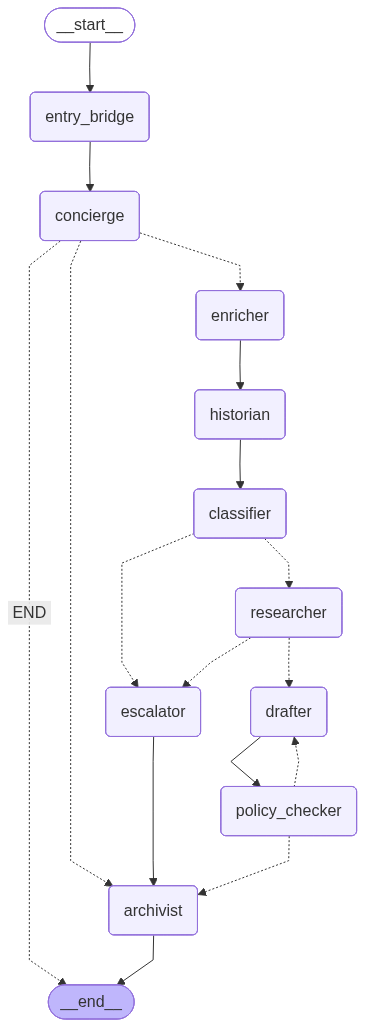
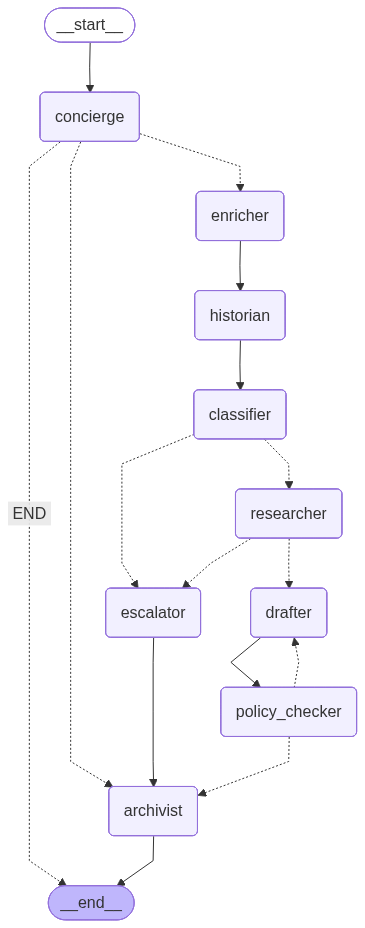
feat: improve researcher and historain and delete bridge

diff --git a/uda_hub/agentic/agents/researcher.py b/uda_hub/agentic/agents/researcher.py
@@ -87,64 +87,75 @@ def research_safety_router(state: UDAHubState) -> Literal["drafter", "escalator"
     return "drafter"
 
 
+# Constants for the node
+MAX_RESEARCH_RETRIES = 2
+
+
 def researcher_node(state: UDAHubState):
     """
-    1. Orchestrates the Researcher Agent to find facts.
-    2. Uses a structured LLM call to Grade those facts against the ticket.
-    3. Returns facts, a numerical confidence score, and an escalation flag.
+    Improved Researcher: Features a self-correction loop.
+    If the grader finds the facts insufficient, the agent is asked to
+    pivot its search strategy (e.g., broader keywords) before giving up.
     """
     anchor = state.get("ticket_text")
     user_id = state.get("user_id")
     tier = state.get("customer_tier", "regular")
 
-    # --- STEP 1: EXECUTE RESEARCH AGENT ---
-    prompt_task = (
-        f"ANCHORED TICKET: {anchor}\n"
-        f"USER CONTEXT: ID={user_id}, Tier={tier}\n\n"
-        "Please find the relevant policies and verify any associated bookings."
-    )
+    # We maintain a local history for this specific research task
+    research_history = [
+        (
+            "system",
+            f"TASK: Find policies and bookings for: {anchor}\nCONTEXT: UserID={user_id}, Tier={tier}",
+        )
+    ]
 
-    config = {
-        "configurable": {"thread_id": state.get("user_id", "internal_research_turn")}
+    attempts = 0
+    final_facts = ""
+    final_grade = None
+
+    while attempts <= MAX_RESEARCH_RETRIES:
+        # --- STEP 1: EXECUTE AGENT ---
+        # We pass the full local history so the agent remembers previous failed queries
+        result = researcher_agent.invoke({"messages": research_history})
+        final_facts = result["messages"][-1].content
+
+        # --- STEP 2: GRADE THE RESEARCH ---
+        grader_llm = llm.with_structured_output(ResearchGrade)
+        grading_prompt = (
+            "You are the UDA-Hub Research Grader. Assess if the facts are sufficient.\n\n"
+            f"USER TICKET: {anchor}\n"
+            f"FOUND FACTS: {final_facts}\n\n"
+            "SCORING RULES:\n"
+            "1. SUCCESS (0.9-1.0): The facts show the standard policy AND confirm the user's Tier (e.g., Basic/Premium). "
+            "If the user is Basic, do NOT penalize for a lack of 'unique' benefits.\n"
+            "2. PARTIAL (0.5-0.7): You have the policy but haven't verified the user's specific tier or reservations.\n"
+            "3. FAIL (0.0-0.4): No relevant policy found or search failed.\n"
+            "NOTE: If the agent confirms the user is a 'Basic' tier and provides the standard inclusions, THIS IS SUFFICIENT."
+        )
+        final_grade: ResearchGrade = grader_llm.invoke(grading_prompt)
+
+        # EXIT CONDITION: High confidence or we've run out of retries
+        if final_grade.is_sufficient or attempts == MAX_RESEARCH_RETRIES:
+            break
+
+        # --- STEP 3: PIVOT (Preparation for Retry) ---
+        attempts += 1
+        research_history.append(("assistant", final_facts))
+        research_history.append(
+            (
+                "user",
+                f"INSUFFICIENT (Confidence: {final_grade.confidence_score}). "
+                f"FEEDBACK: {final_grade.reasoning}. "
+                "Try a broader SQL search using LIKE or checking the 'tags' column.",
+            )
+        )
+
+    # --- STEP 4: RETURN FINAL STATE ---
+    return {
+        "research_facts": final_facts,
+        "retrieval_confidence": final_grade.confidence_score,
+        "needs_escalation": not final_grade.is_sufficient,
     }
-
-    # Execute the agent to gather raw facts
-    result = researcher_agent.invoke({"messages": [("user", prompt_task)]}, config)
-    found_facts = result["messages"][-1].content
-
-    # --- STEP 2: LLM-BASED GRADING (The "Missing Piece") ---
-    # We use structured output to generate a numerical confidence score
-    grader_llm = llm.with_structured_output(ResearchGrade)
-
-    grading_prompt = (
-        "You are the UDA-Hub Research Grader. Your goal is to assess if the found facts "
-        "are sufficient to answer the user's ticket correctly.\n\n"
-        f"USER TICKET: {anchor}\n"
-        f"FOUND FACTS: {found_facts}\n\n"
-        "SCORING RULES:\n"
-        "1. If the facts contain the specific policy or booking info needed: 0.8 - 1.0\n"
-        "2. If the facts are related but incomplete: 0.4 - 0.7\n"
-        "3. If the facts say 'No information found' or are irrelevant: 0.0 - 0.3 (is_sufficient = False)"
-    )
-
-    grade: ResearchGrade = grader_llm.invoke(grading_prompt)
-
-    # --- STEP 3: RETURN STRUCTURED STATE ---
-    out = {
-        "research_facts": found_facts,
-        "retrieval_confidence": grade.confidence_score,  # Numerical score for routing
-        "needs_escalation": not grade.is_sufficient,  # Deterministic flag for routing
-    }
-
-    # Structured logging (include optional match counts if present)
-    node_log(
-        "researcher",
-        retrieval_confidence=out.get("retrieval_confidence"),
-        kb_matches=out.get("kb_matches"),
-        reservation_matches=out.get("reservation_matches"),
-    )
-
-    return out
 
 
 if __name__ == "__main__":

diff --git a/uda_hub/agentic/workflow.py b/uda_hub/agentic/workflow.py
@@ -38,23 +38,6 @@ def qa_router(state: UDAHubState) -> Literal["drafter", "archivist"]:
     return "archivist"
 
 
-def entry_bridge_node(state: UDAHubState):
-    """
-    Prepares the state for a new turn.
-    Clears temporary decision fields while preserving the conversation history.
-    """
-    messages = state.get("messages", [])
-    latest_input = messages[-1].content if messages else ""
-
-    return {
-        "latest_input": latest_input,
-        "research_facts": None,  # Reset for new research pass
-        "policy_grade": None,  # Clear previous audit
-        "policy_feedback": None,  # Clear previous feedback
-        "ai_response": None,  # Clear previous draft
-    }
-
-
 # ==========================================
 # 2. GRAPH DEFINITION
 # ==========================================
@@ -63,7 +46,6 @@ workflow = StateGraph(UDAHubState)
 
 # Add Nodes
 workflow.add_node("historian", historian_node)
-workflow.add_node("entry_bridge", entry_bridge_node)
 workflow.add_node("enricher", data_enricher_node)
 workflow.add_node("classifier", classifier_node)
 workflow.add_node("concierge", concierge_node)
@@ -76,8 +58,7 @@ workflow.add_node("archivist", archivist_node)
 # --- Define the Connections ---
 
 # Initial Pipeline
-workflow.add_edge(START, "entry_bridge")
-workflow.add_edge("entry_bridge", "concierge")
+workflow.add_edge(START, "concierge")
 
 # concierge Decision (Inbound Traffic)
 workflow.add_conditional_edges(
@@ -144,12 +125,16 @@ if __name__ == "__main__":
 
     # Alice returns to ask for a refund.
     # This should trigger: Concierge (Triage) -> Enricher (ID) -> Historian (Memory) -> Classifier -> Supervisor
+    user_input = "I want to know what's included in my CultPass. My email is bob.stone@granite.com"
     initial_state = {
         "messages": [
             HumanMessage(
-                content="I can't attend my Christ the Redeemer booking. Refund?. My email is alice.kingsley@wonderland.com."
+                # content="I can't attend my Christ the Redeemer booking. Refund?. My email is alice.kingsley@wonderland.com."
+                # content="I'd like to know what's included in my current plan. My email is bob.stone@granite.com."
+                content=user_input
             )
         ],
+        "ticket_text": user_input 
     }
 
     config = {"configurable": {"thread_id": f"{uuid.uuid4()}"}}

diff --git a/uda_hub/agentic/agents/supervisor.py b/uda_hub/agentic/agents/supervisor.py
@@ -13,13 +13,12 @@ def supervisor_router(
     """
     category = state.get("category")
     urgency = state.get("urgency")
-    user_id = state.get("user_id")
     confidence = state.get("confidence_score", 0.0)
     anchor = state.get("ticket_text")
 
     # NEW: Long-Term Memory Fields
     suggested_action = state.get("suggested_history_action")
-    is_recurring = state.get("is_recurring", False)
+    # is_recurring = state.get("is_recurring", False)
 
     # --- THE HIJACK PROTECTION (Priority 1) ---
     if category == "greeting" and not anchor:

diff --git a/uda_hub/agentic/agents/historian.py b/uda_hub/agentic/agents/historian.py
@@ -23,10 +23,9 @@ class SimilarityGrade(BaseModel):
         description="Explanation of why this is or isn't a duplicate."
     )
     suggested_action: str = Field(
-        description="Recommended next step (e.g., 'escalate', 'clarify', 'proceed').",
+        description="Recommended next step (e.g., 'escalate', 'proceed').",
         json_schema_extra=[
             "escalate",
-            "clarify",
             "proceed",
         ],
     )

diff --git a/uda_hub/agentic/agents/classifier.py b/uda_hub/agentic/agents/classifier.py
@@ -93,7 +93,7 @@ def classifier_node(state: UDAHubState) -> dict:
     updates = response.model_dump()
 
     # --- DYNAMIC ANCHORING LOGIC ---
-    if not existing_ticket and updates["category"] != "greeting":
+    if not existing_ticket:
         updates["ticket_text"] = latest_input
     else:
         updates["ticket_text"] = existing_ticket
